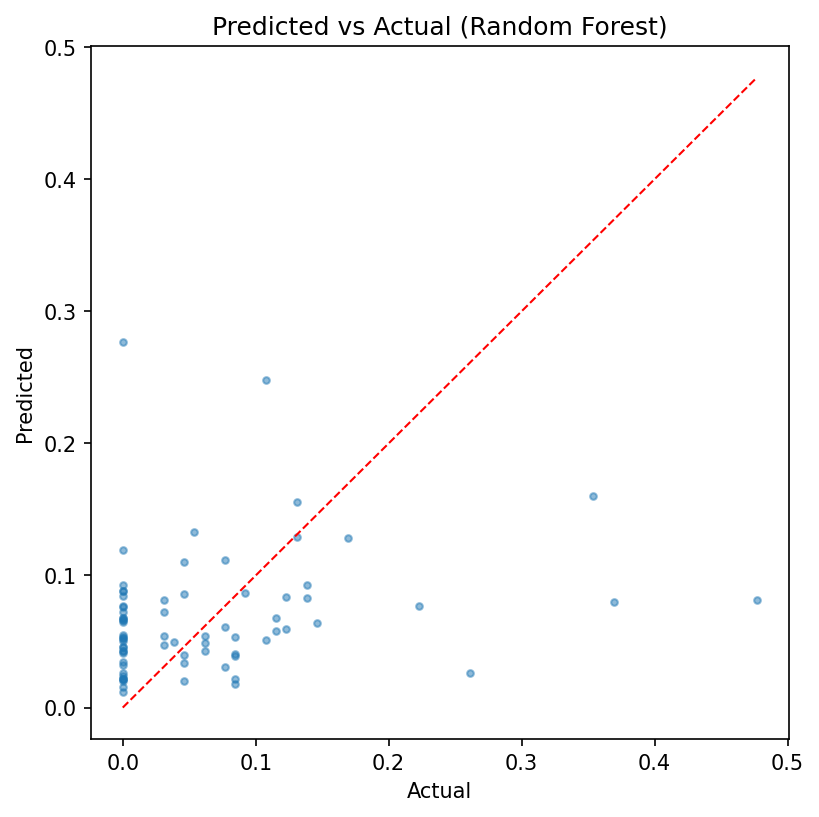
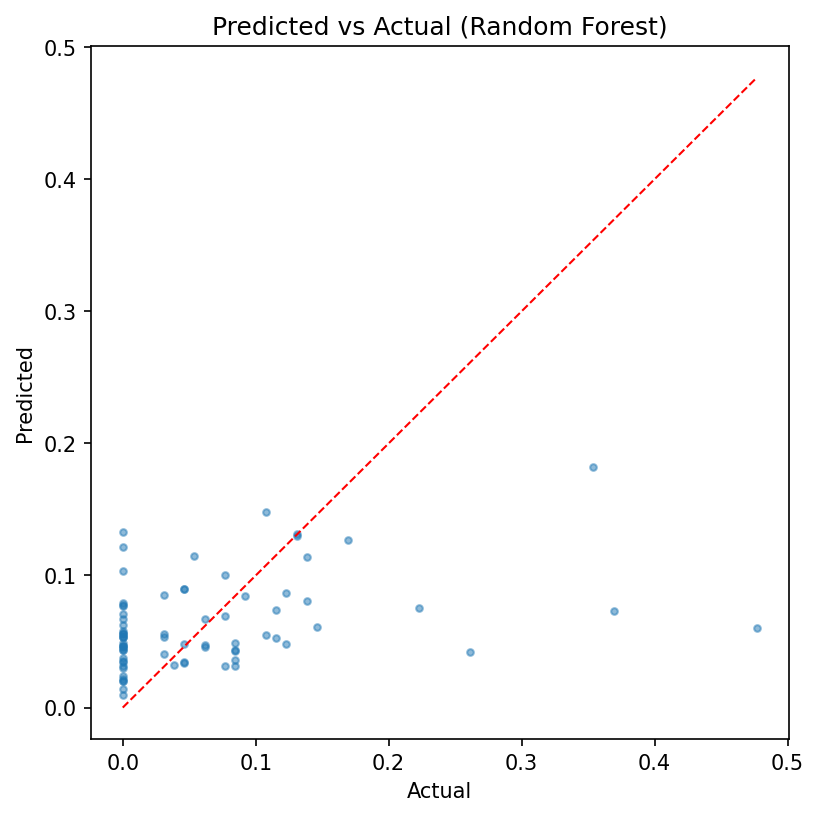
Random Forest Optimization
Used a grid search for hyperparameter optimization. Increased R2 from <0 to 0.1314.

Improved MSE from 0.0087 to 0.0072

diff --git a/src/train_model_randf.py b/src/train_model_randf.py
@@ -38,7 +38,14 @@ def load_data() -> tuple[pd.DataFrame, pd.Series, pd.DataFrame, pd.Series]:
 data = load_data()
 X_train, X_test, y_train, y_test = data
 
-model = RandomForestRegressor(n_estimators=100, random_state=RANDOM_STATE, n_jobs=-1)
+model = RandomForestRegressor(
+    n_estimators=500,
+    min_samples_leaf= 4,
+    min_samples_split= 10,
+    max_depth=5, 
+    random_state=RANDOM_STATE, 
+    n_jobs=-1)
+
 model.fit(X_train, y_train)
 
 y_pred = model.predict(X_test)
@@ -59,3 +66,28 @@ plt.savefig(PLOT_OUTPUT, dpi=150, bbox_inches="tight")
 plt.close()
 
 print(f"[INFO] Plot saved to: {PLOT_OUTPUT}")
+
+'''
+from sklearn.model_selection import GridSearchCV
+
+param_grid = {
+    'n_estimators': [50, 100, 200, 500],
+    'max_depth': [5, 10, 20, None],
+    'min_samples_split': [2, 5, 10],
+    'min_samples_leaf': [1, 2, 4]
+}
+
+# Use a new GridSearchCV object
+grid_search = GridSearchCV(
+    estimator=RandomForestRegressor(random_state=RANDOM_STATE, n_jobs=-1),
+    param_grid=param_grid,
+    cv=3,          # Use cross-validation
+    scoring='neg_mean_squared_error',
+    verbose=1
+)
+
+grid_search.fit(X_train, y_train)
+
+print(f"[INFO] Best parameters found: {grid_search.best_params_}")
+best_model = grid_search.best_estimator_
+'''
